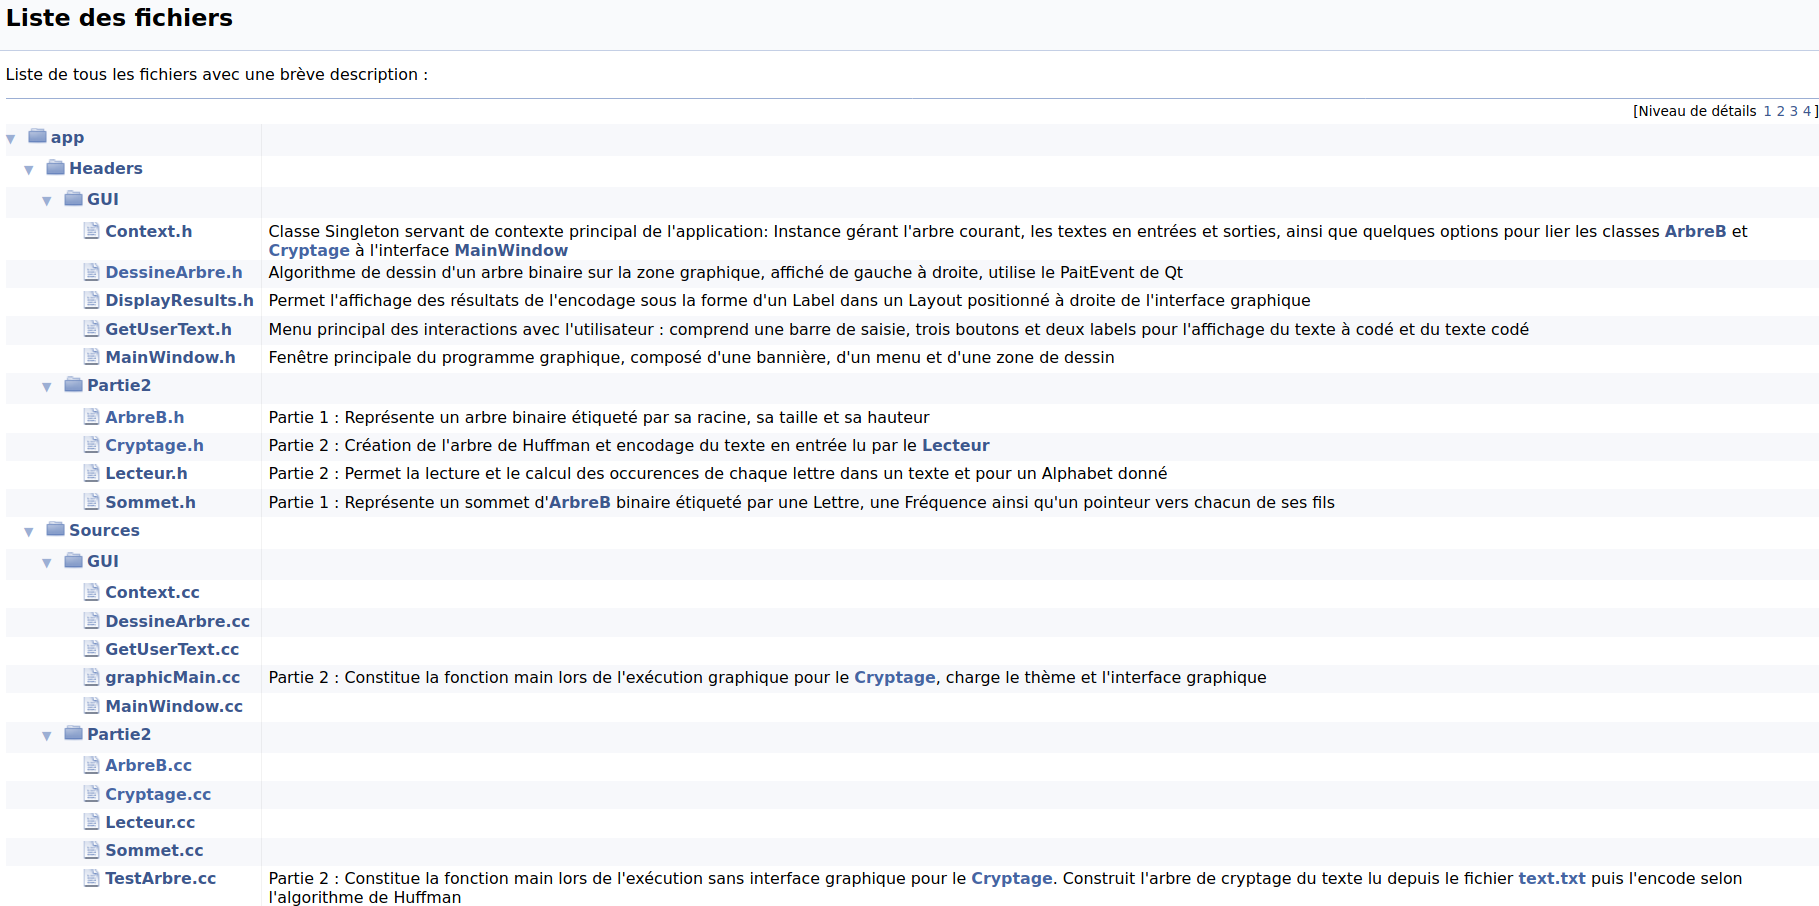
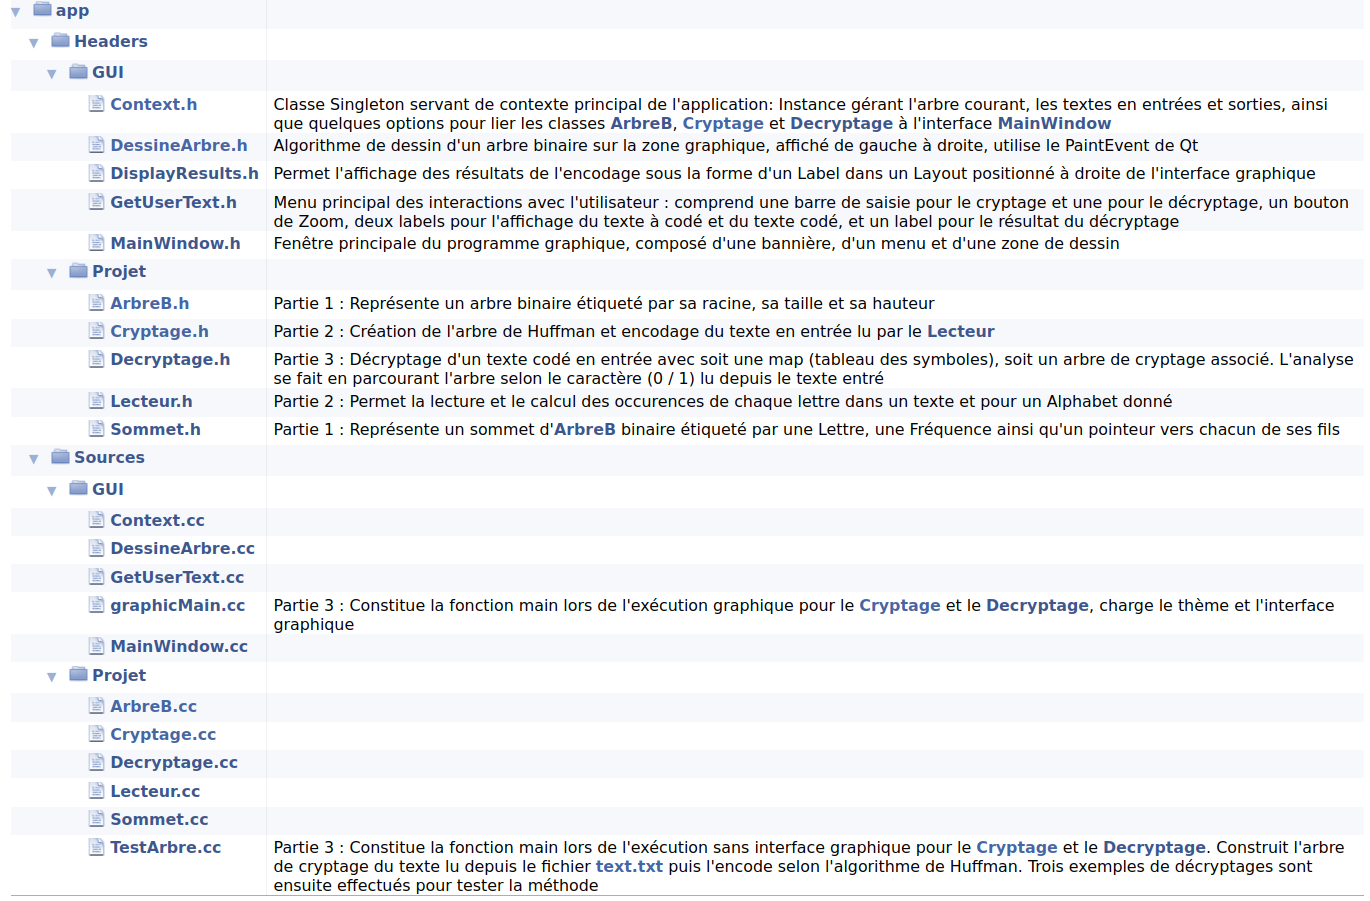
Restructuration fichiers Partie 3

Changed region(s): [[0.0, 0.0, 1.0, 1.0]]

diff --git a/app/Sources/Projet/TestArbre.cc b/app/Sources/Projet/TestArbre.cc
@@ -1,13 +1,13 @@
-#include "../../Headers/Partie2/ArbreB.h"
-#include "../../Headers/Partie2/Lecteur.h"
-#include "../../Headers/Partie2/Cryptage.h"
-
-#include "../../Headers/Partie2/Decryptage.h"
+#include "../../Headers/Projet/ArbreB.h"
+#include "../../Headers/Projet/Lecteur.h"
+#include "../../Headers/Projet/Cryptage.h"
+#include "../../Headers/Projet/Decryptage.h"
 using namespace std;
 /**
  * @file TestArbre.cc
- * @brief Partie 2 : Constitue la fonction main lors de l'exécution sans interface graphique pour le Cryptage.
+ * @brief Partie 3 : Constitue la fonction main lors de l'exécution sans interface graphique pour le Cryptage et le Decryptage.
  * Construit l'arbre de cryptage du texte lu depuis le fichier text.txt puis l'encode selon l'algorithme de Huffman. 
+ * Trois exemples de décryptages sont ensuite effectués pour tester la méthode.
  */
 int main(int argc, char* argv[]) {
     std::cout << "\033[1;33mProjet LA - Cryptage et décryptage | Samy BOUMALI & Amine ATEK\033[0m - Exécution CLI\n" << std::endl;

diff --git a/app/Headers/GUI/Context.h b/app/Headers/GUI/Context.h
@@ -1,17 +1,16 @@
 #pragma once
 
-#include "../Partie2/Sommet.h"
-#include "../Partie2/ArbreB.h"
-#include "../Partie2/Lecteur.h"
-#include "../Partie2/Cryptage.h"
-#include "../Partie2/Decryptage.h"
+#include "../Projet/Sommet.h"
+#include "../Projet/ArbreB.h"
+#include "../Projet/Lecteur.h"
+#include "../Projet/Cryptage.h"
+#include "../Projet/Decryptage.h"
 #include <QtCore/QObject>
-#include <QDebug>
 
 /**
  * @file Context.h 
  * @brief Classe Singleton servant de contexte principal de l'application: 
- * Instance gérant l'arbre courant, les textes en entrées et sorties, ainsi que quelques options pour lier les classes ArbreB et Cryptage à l'interface MainWindow.
+ * Instance gérant l'arbre courant, les textes en entrées et sorties, ainsi que quelques options pour lier les classes ArbreB, Cryptage et Decryptage à l'interface MainWindow.
  */
 class Context : public QObject {
 

diff --git a/app/Sources/GUI/GetUserText.cc b/app/Sources/GUI/GetUserText.cc
@@ -104,7 +104,7 @@ void GetUserText::checkChangeDecrypte(const QString & text)  {
     if (text.isEmpty())
         return;
     // QRegularExpression regex("^[0-1]+$"); 
-    QRegularExpression regex("^(1|0| |.|,|;)+$");
+    QRegularExpression regex("^(1|0| |,|;)+$");
     QRegularExpressionMatch match = regex.match(text);
     if (!match.hasMatch()) 
         texte_decrypte->setText("<font color='red'>L'expression à décoder doit contenir uniquement des 0 ou des 1.</font>");

diff --git a/app/Headers/GUI/DisplayResults.h b/app/Headers/GUI/DisplayResults.h
@@ -56,7 +56,7 @@ public :
 
         layout->addSpacing(40);
         // QLabel signature
-        signature = new QLabel("<center><b>Projet LA - Partie 2</b><br></br>Samy BOUMALI & Amine ATEK</center>");
+        signature = new QLabel("<center><b>Projet LA - Partie 3</b><br></br>Samy BOUMALI & Amine ATEK</center>");
         signature->show();
         layout->addWidget(signature,Qt::AlignBottom);
 

diff --git a/app/Sources/GUI/graphicMain.cc b/app/Sources/GUI/graphicMain.cc
@@ -8,7 +8,7 @@
 
 /**
  * @file graphicMain.cc
- * @brief Partie 2 : Constitue la fonction main lors de l'exécution graphique pour le Cryptage, charge le thème et l'interface graphique.
+ * @brief Partie 3 : Constitue la fonction main lors de l'exécution graphique pour le Cryptage et le Decryptage, charge le thème et l'interface graphique.
  */
 int main(int argc, char* argv[])
 {

diff --git a/app/Headers/GUI/DessineArbre.h b/app/Headers/GUI/DessineArbre.h
@@ -1,12 +1,9 @@
 #ifndef DESSINEARBRE_H
 #define DESSINEARBRE_H
 
-#include "../Partie2/ArbreB.h"
 #include "Context.h"
 
 #include <QMainWindow>
-#include <QScrollArea>
-
 #include <QtGui/QPainter>
 #include <QtGui/QPaintDevice>
 

diff --git a/app/Sources/Projet/Decryptage.cc b/app/Sources/Projet/Decryptage.cc
@@ -1,4 +1,4 @@
-#include "../../Headers/Partie2/Decryptage.h"
+#include "../../Headers/Projet/Decryptage.h"
 using namespace std;
 /**
  * @brief Constructeur de classe: constitué d'un chaine cryptée et d'une map

diff --git a/app/Sources/Projet/Lecteur.cc b/app/Sources/Projet/Lecteur.cc
@@ -1,4 +1,4 @@
-#include "../../Headers/Partie2/Lecteur.h"
+#include "../../Headers/Projet/Lecteur.h"
 using namespace std;
 
 /**

diff --git a/app/Sources/Projet/Cryptage.cc b/app/Sources/Projet/Cryptage.cc
@@ -1,4 +1,4 @@
-#include "../../Headers/Partie2/Cryptage.h"
+#include "../../Headers/Projet/Cryptage.h"
 
 using namespace std;
 

diff --git a/app/Sources/Projet/ArbreB.cc b/app/Sources/Projet/ArbreB.cc
@@ -1,4 +1,4 @@
-#include "../../Headers/Partie2/ArbreB.h"
+#include "../../Headers/Projet/ArbreB.h"
 using namespace std;
 
 

diff --git a/app/Sources/Projet/Sommet.cc b/app/Sources/Projet/Sommet.cc
@@ -1,4 +1,4 @@
-#include "../../Headers/Partie2/Sommet.h"
+#include "../../Headers/Projet/Sommet.h"
 using namespace std;
 
 
